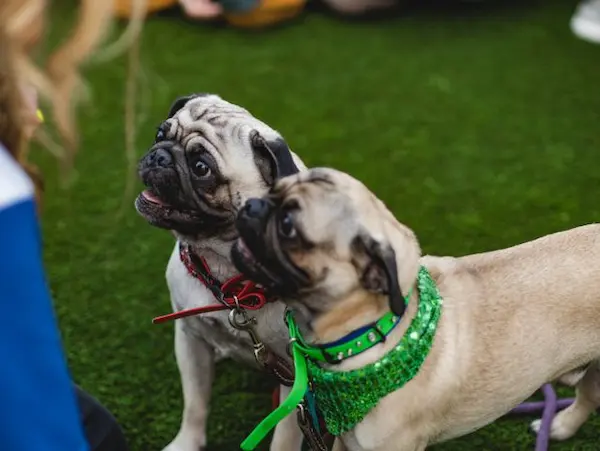
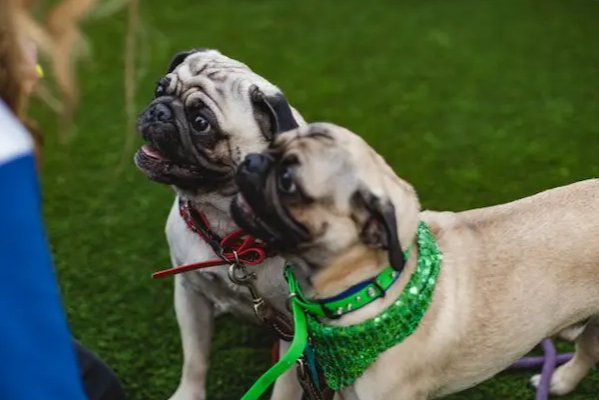
standardize images

diff --git a/project/scripts/pugs.js b/project/scripts/pugs.js
@@ -30,9 +30,13 @@ const photos = [
     }
 ];
 
-photos.forEach((photo) => {
-    console.log(photo.caption);
-});
+function displayPhotoCaptions() {
+    photos.forEach((photo) => {
+        console.log(photo.caption);
+    });
+}
+
+displayPhotoCaptions();
 
 let currentPhoto = 0;
 
